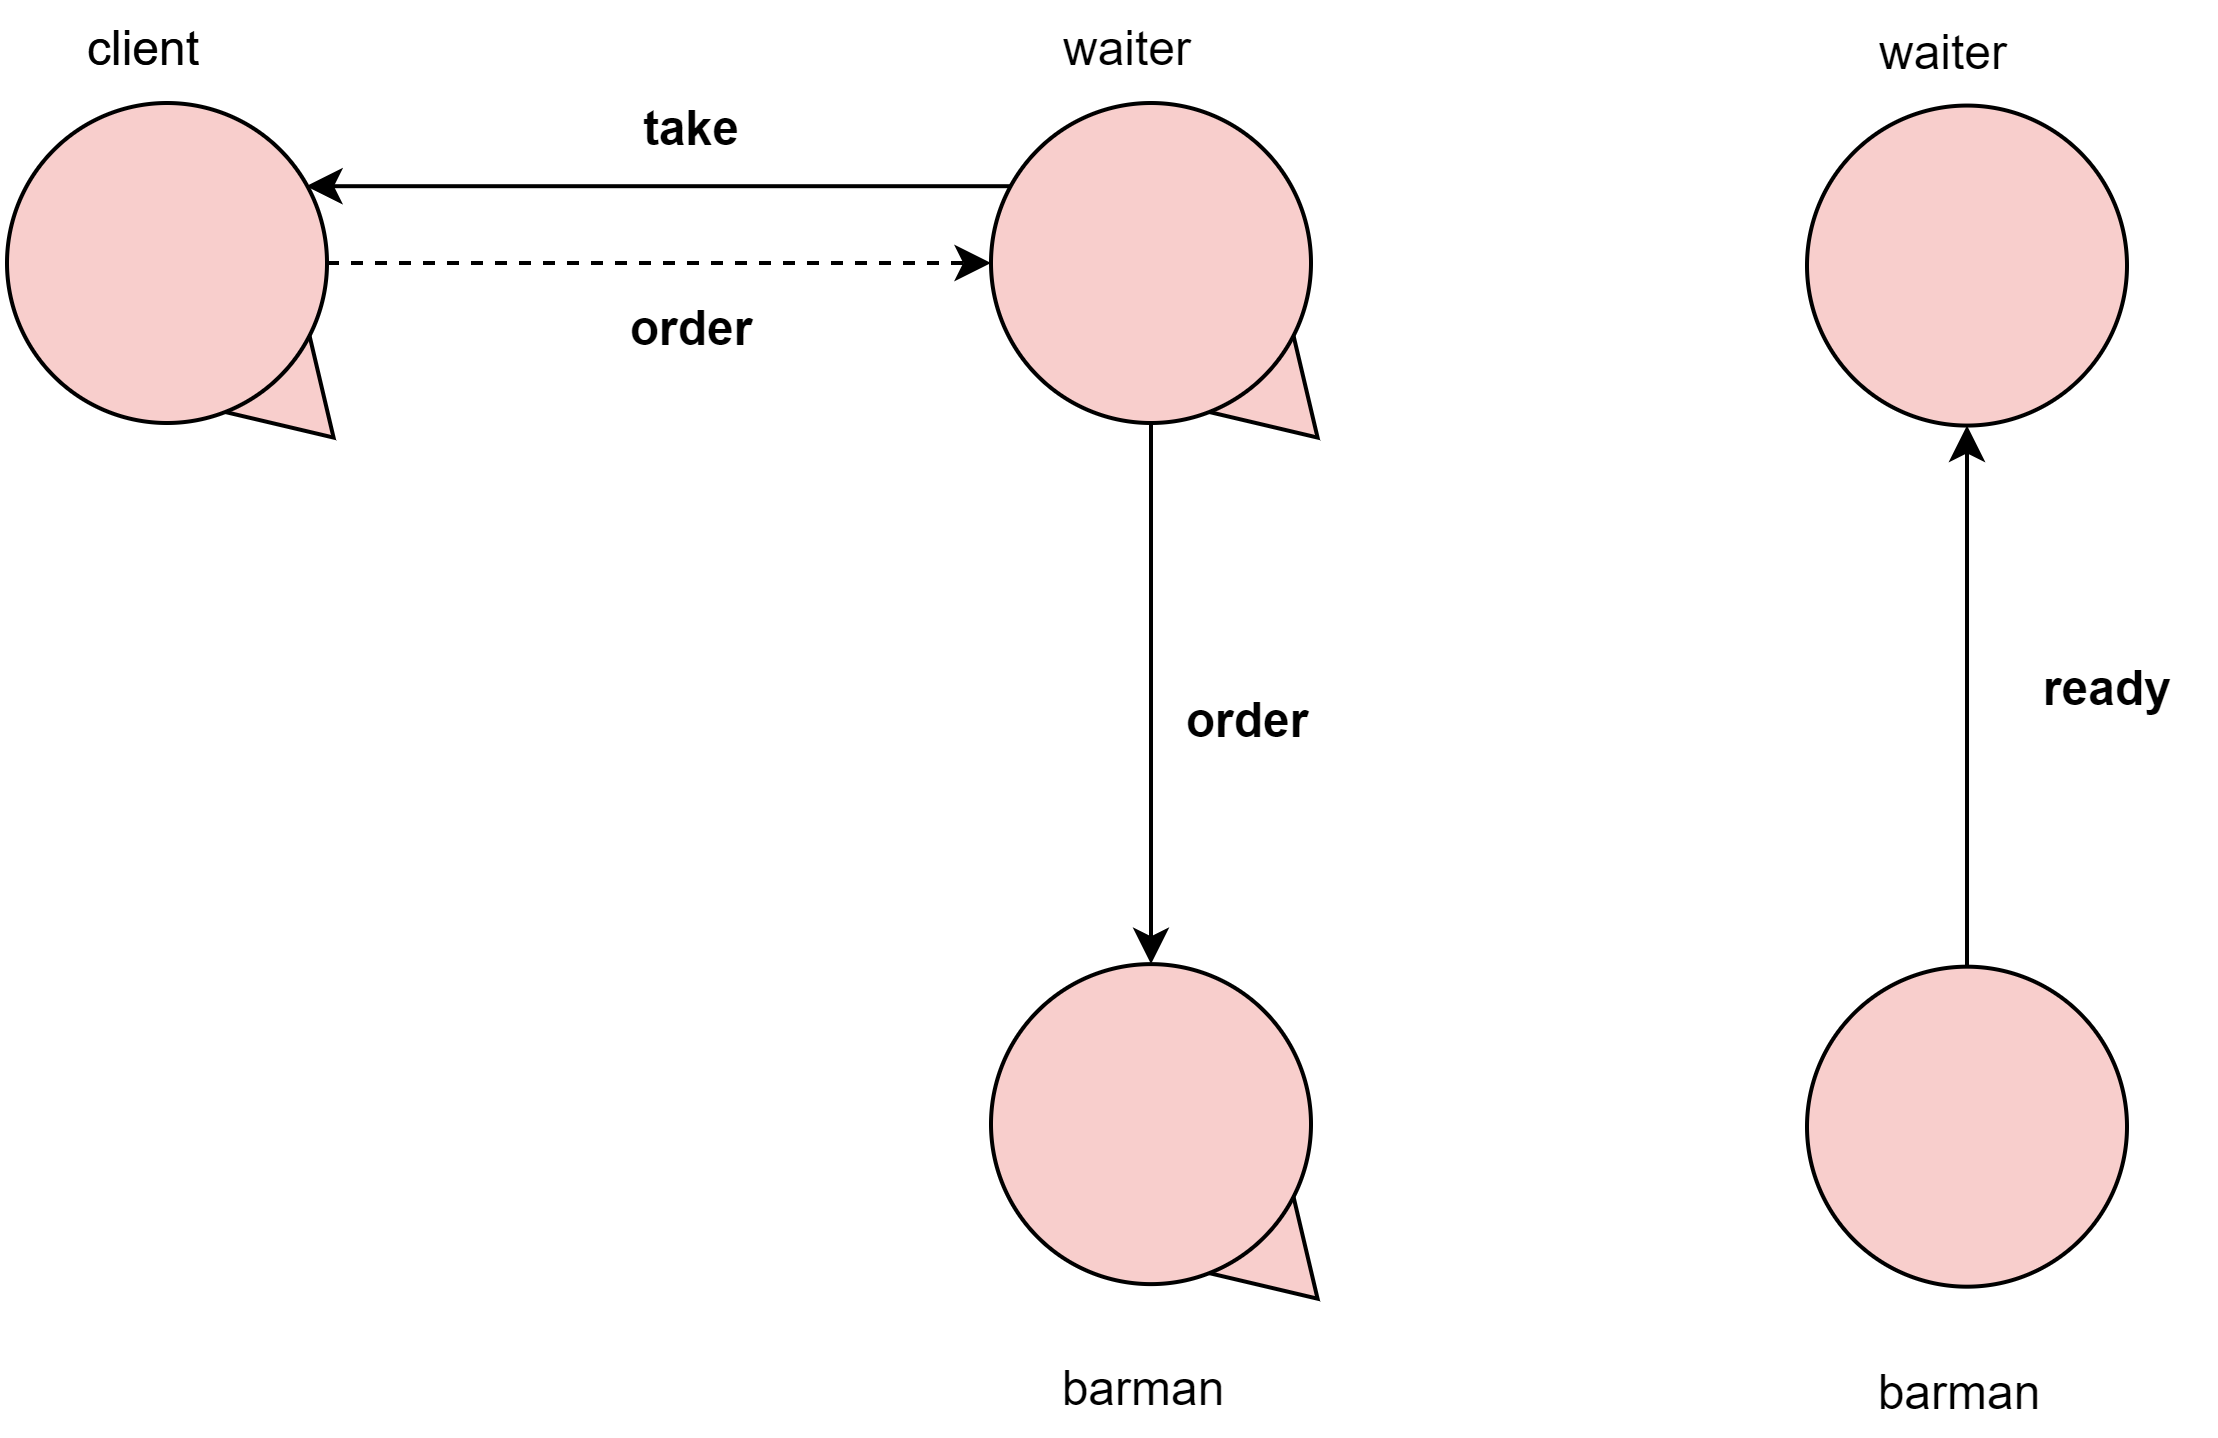
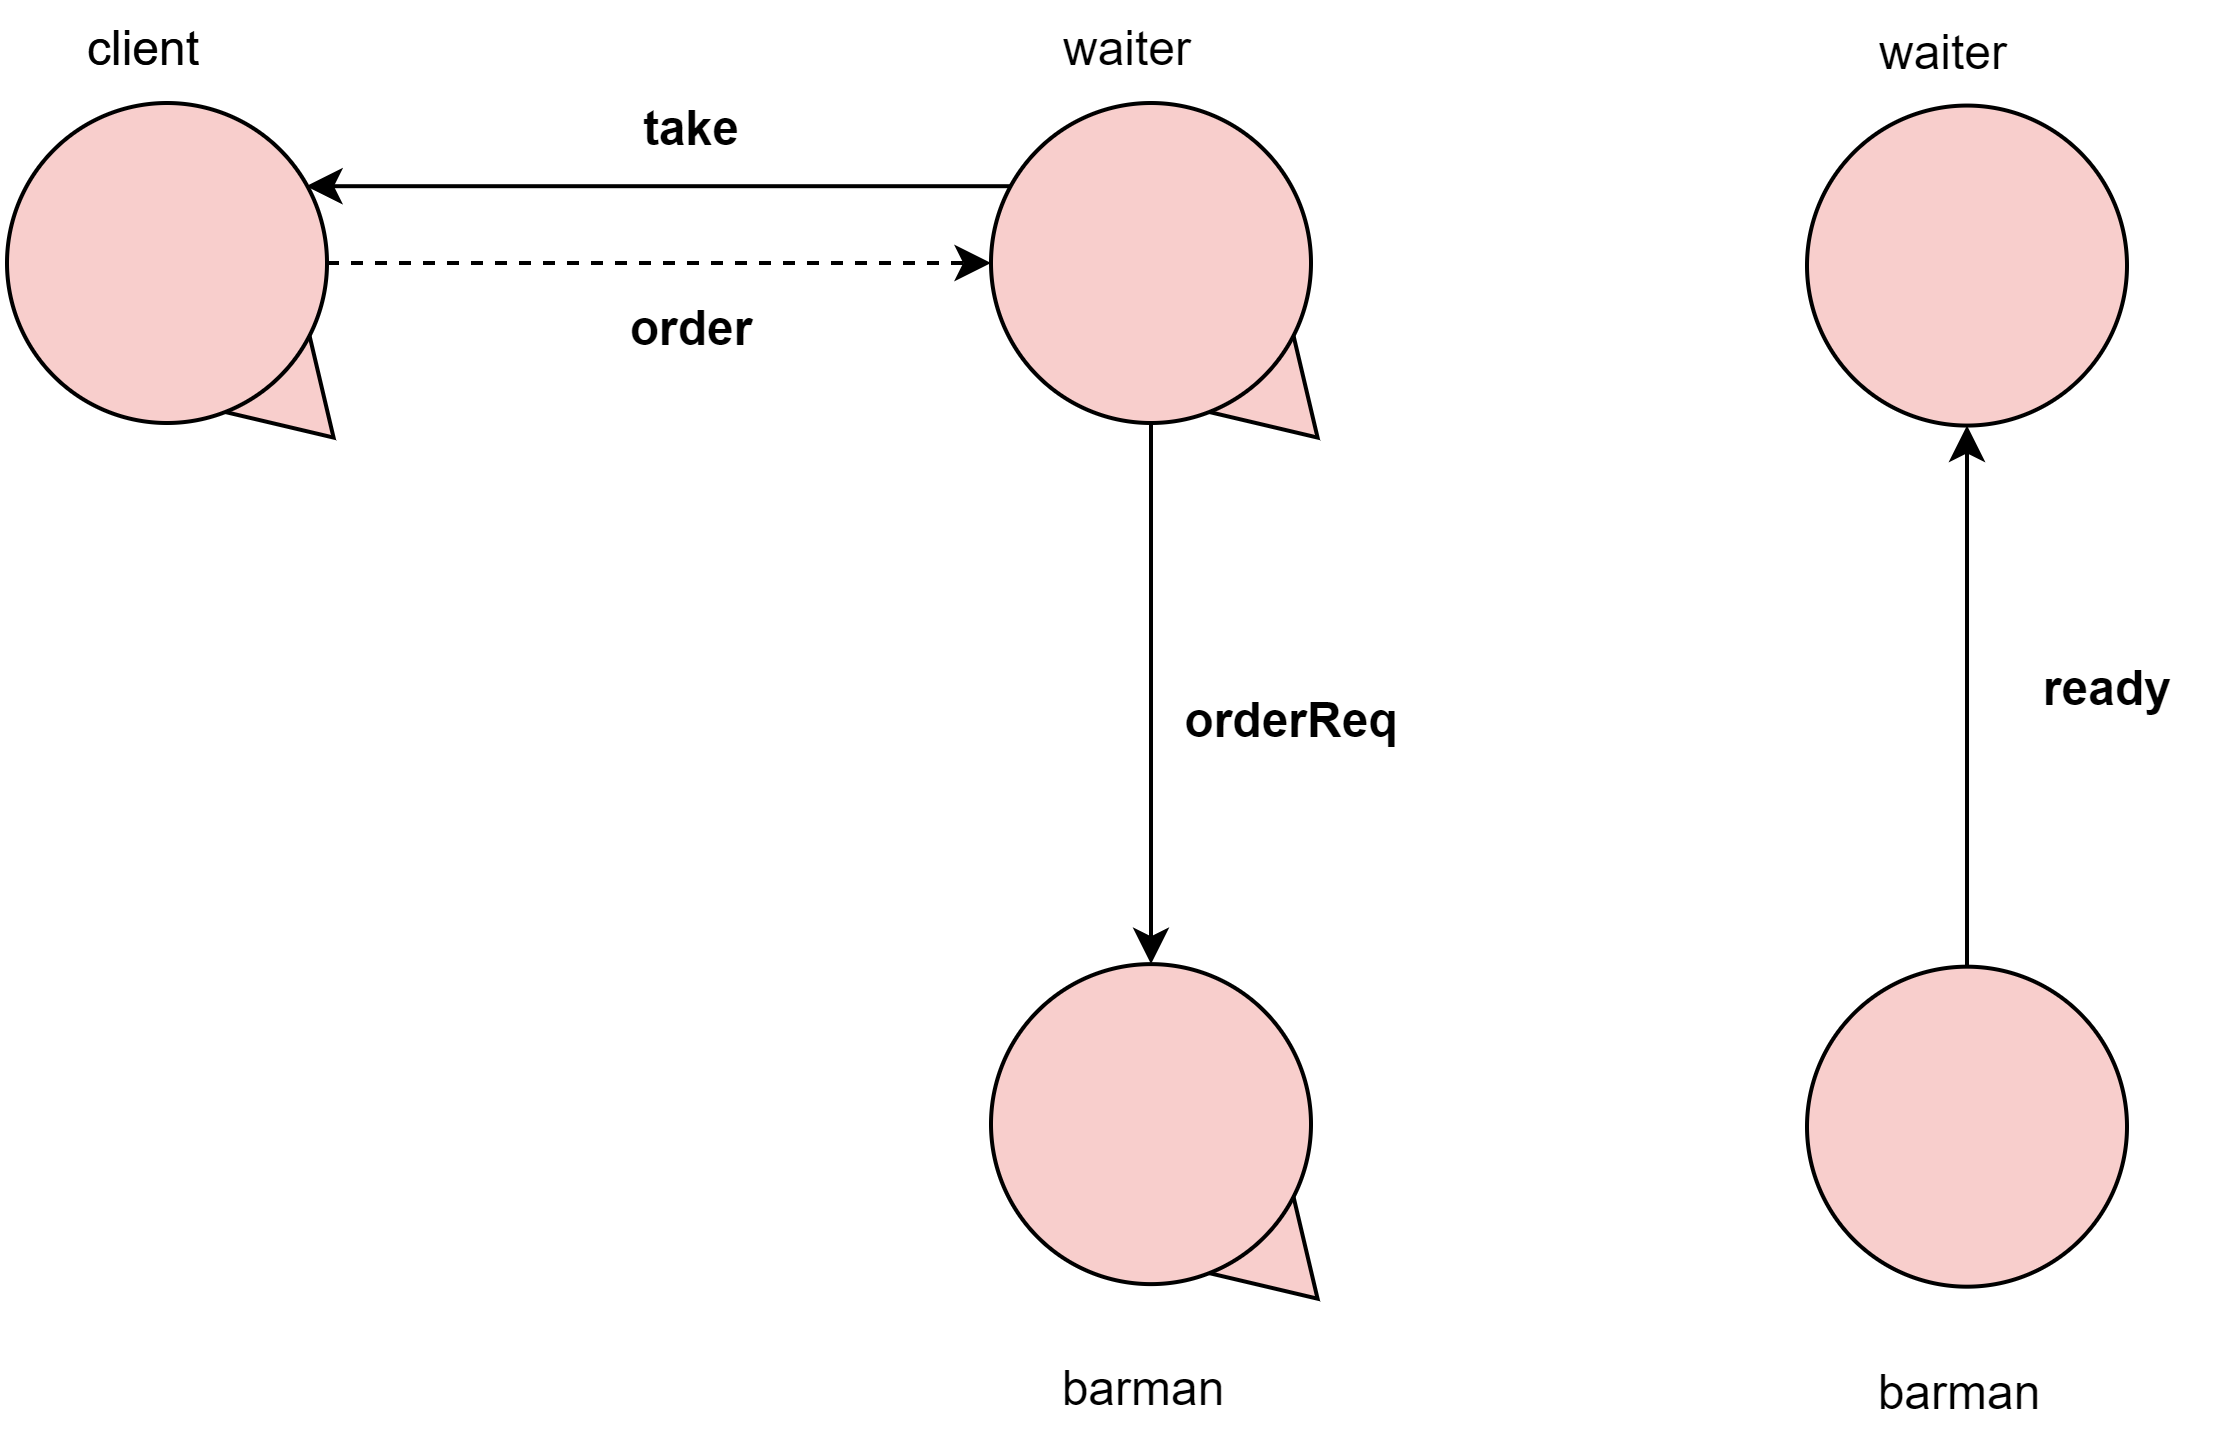
updating img smartbell-waiter

diff --git a/Relazioni/analisi.html b/Relazioni/analisi.html
@@ -192,7 +192,7 @@
                         </td>
                         <td>
                             Il <bc>waiter</bc> tramite un messaggio <em>take</em> chiede al <bc>client</bc> il suo ordine. Dopo aver raccolto la riposta (<em>order</em>) del <bc>client</bc>, 
-                            il <bc>waiter</bc> comunica al <bc>barman</bc> di preparare il drink richiesto. </br></br>
+                            il <bc>waiter</bc> comunica al <bc>barman</bc> di preparare il drink richiesto (<em>orderReq</em>). </br></br>
                             Quando il <bc>barman</bc> ha finito di preparare il drink richiesto dal <bc>client</bc>, lo comunica al <bc>waiter</bc> tramite un <em>ready</em>.
                             
                         </td>
